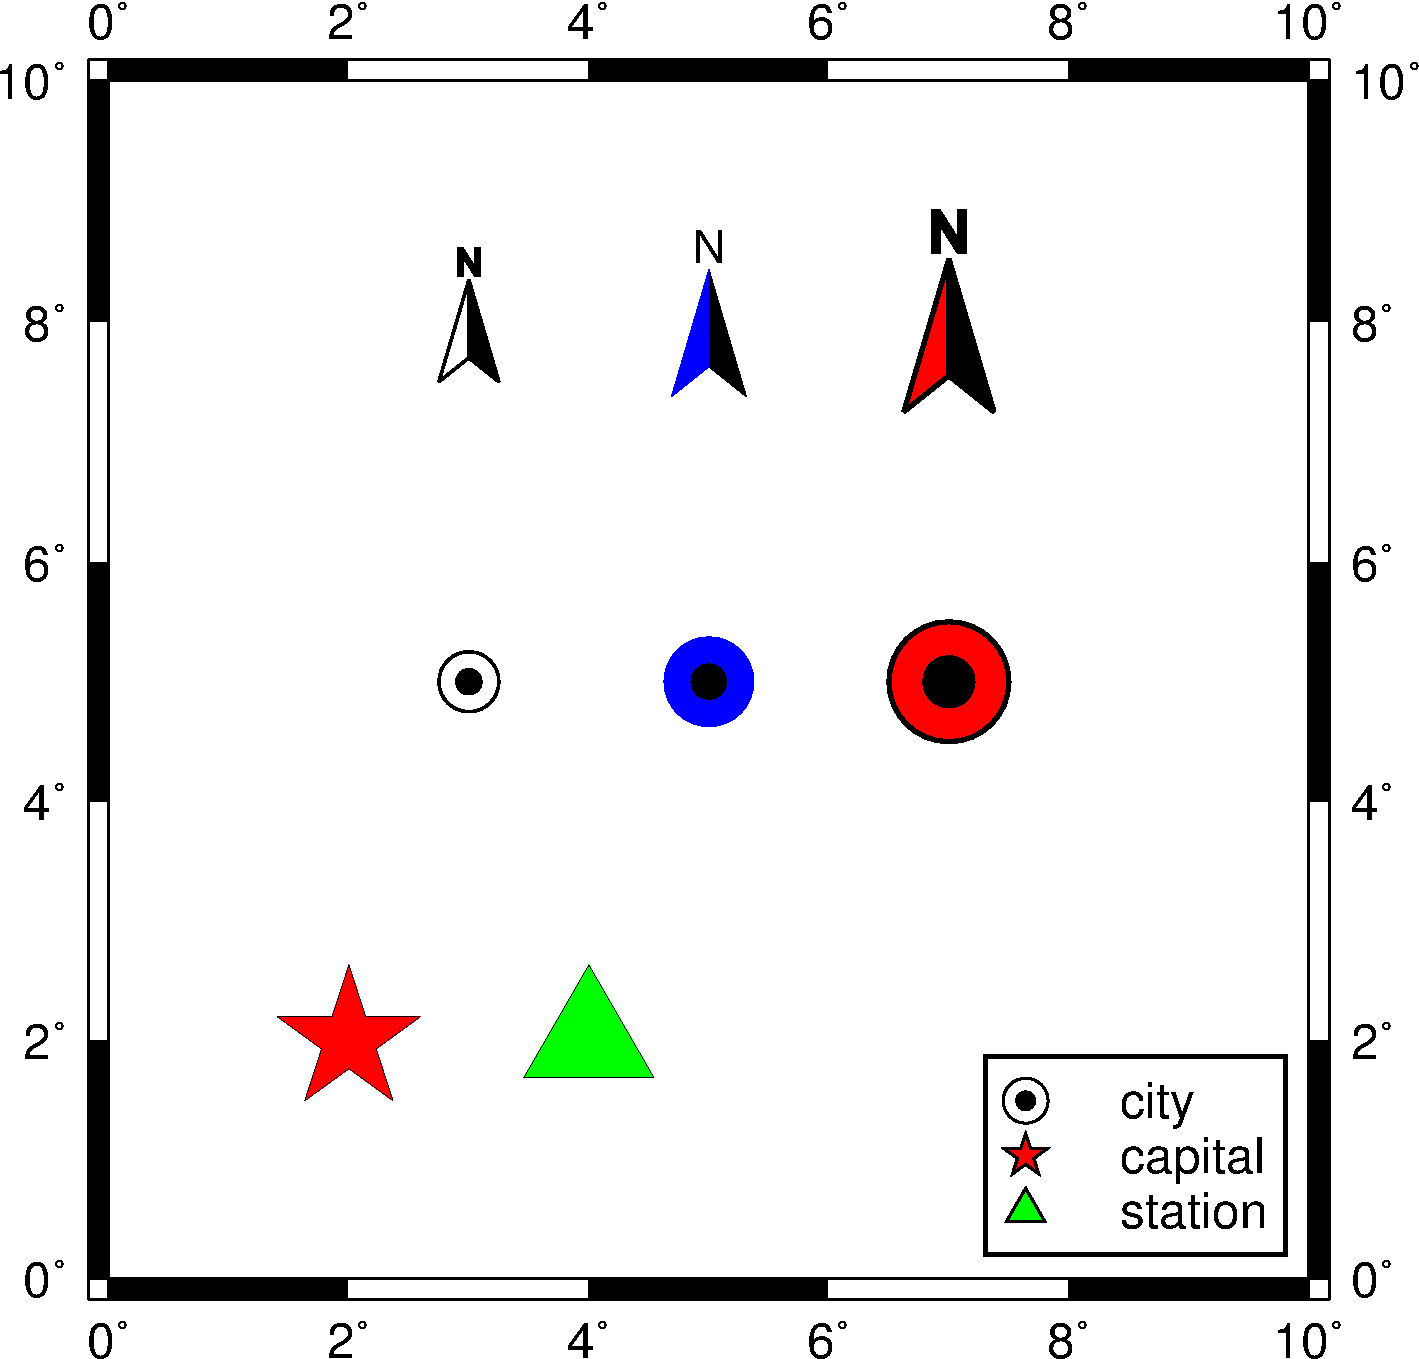
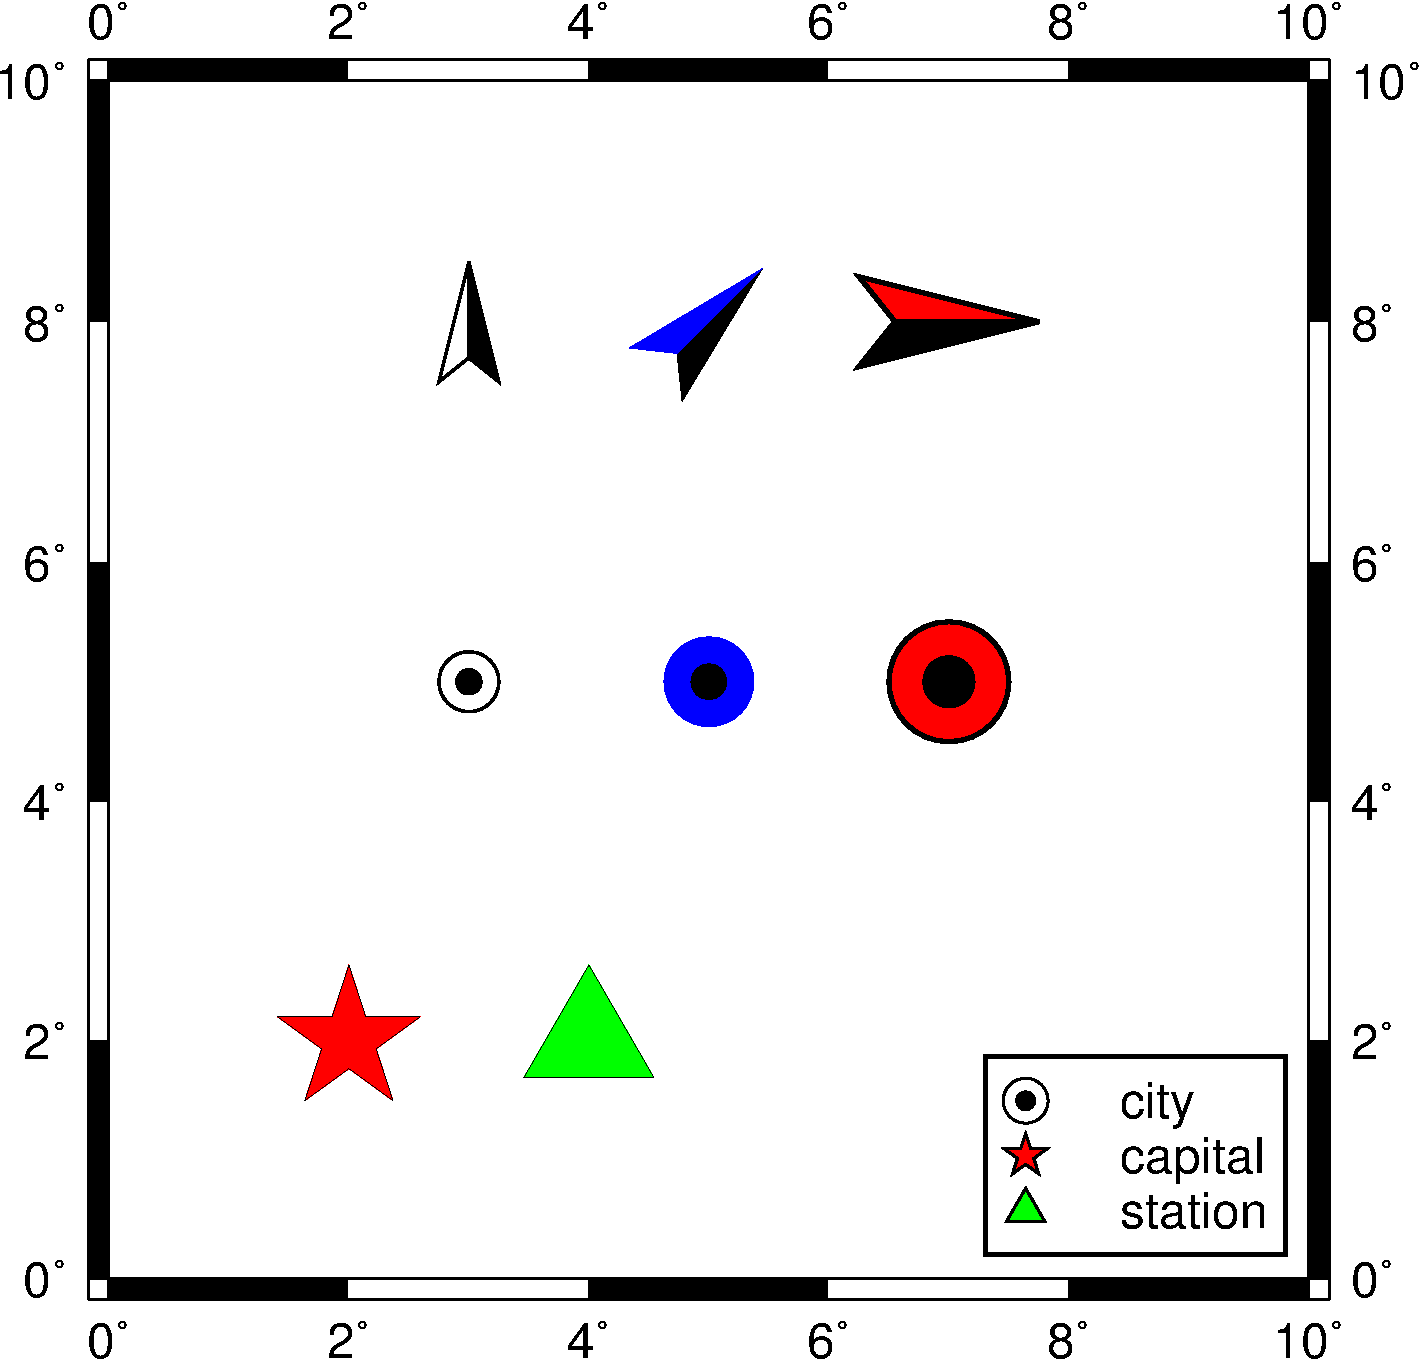
update custom symbols

Changed region(s): [[0.5891, 0.1545, 0.7442, 0.3091], [0.4341, 0.1854, 0.5271, 0.3091], [0.3101, 0.1854, 0.3411, 0.2472]]

diff --git a/content/blog/2018-01-03-gmt-custom-symbols/index.md b/content/blog/2018-01-03-gmt-custom-symbols/index.md
@@ -12,18 +12,9 @@ authors:
     - 赵志远
 ---
 
-{{% alert info %}}
-下载地址：[gmt-custom-symbols.zip](/blog/gmt-custom-symbols/gmt-custom-symbols.zip)
-{{% /alert %}}
+虽然 GMT 内置了 40 个不同的自定义符号，但对于广大用户来说还是远远无法满足需求。目前，社区提供了一些常用的但还没有被 GMT 官方内置的自定义符号，如果你觉得有其它实用的符号没有被包含进来，请向我们反馈，我们会酌情考虑。
 
-虽然 GMT 内置了 40 个不同的自定义符号，但对于广大用户来说还是远远无法满足需求，因此，社区将在这里持续更新一些常用的但还没有被 GMT 官方内置的自定义符号。如果你觉得有其它实用的符号没有被包含进来，请向我们反馈，我们会酌情考虑。
-
-目前社区提供的自定义符号包括：
-
-1. `city`：城市符号
-2. `compass`：指北针符号
-
-直接下载 [gmt-custom-symbols.zip](/blog/gmt-custom-symbols/gmt-custom-symbols.zip) 并根据需求将解压得到的 def 文件复制到以下任意路径（按脚本搜索顺序排列）：
+在GMT中文社区[下载](https://github.com/gmt-china/GMT_custom_symbols)所需 def 文件复制到以下任意路径（按脚本搜索顺序排列）：
 
 1. `current directory`，即运行脚本所在目录
 2. `~/.gmt` 目录
